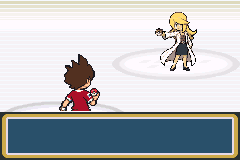
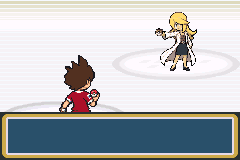
Lower Nathan battle back poses one pixel to meet action bar

Changed region(s): [[0.2333, 0.4688, 0.4083, 0.7188], [0.2625, 0.3438, 0.3792, 0.4688]]

diff --git a/docs/lavanville-zombie-night/integration-alyzon/README.md b/docs/lavanville-zombie-night/integration-alyzon/README.md
@@ -15,12 +15,14 @@ Neuf images 16 × 32, 256 octets chacune : face au repos (0), dos (1), profil (2
 
 La palette carte est chargée à l'apparition, au changement d'identifiant graphique, à la création d'un objet virtuel et lors du retour au terrain. Elle occupe une banque distincte de Nathan (0), Matt dans les scènes existantes d'Argenta/Ligue (6) et Don (10). La banque 7 est réservée à Alyzon dans les scènes qui l'utilisent ; c'est normalement la banque de reflet du deuxième PNJ. Une future scène avec des reflets d'eau concurrents devra tenir compte de cette réservation. La restauration de palette utilise le tag d'Alyzon tant que son objet est actif. Aucun état persistant ni espace EWRAM supplémentaire n'est ajouté.
 
+Le dos de Nathan (`graphics/yokai_characters/nathan/back.png`) est abaissé d’un pixel natif sur ses cinq poses de combat pour toucher le bord supérieur de la barre d’action. La dernière ligne était transparente : aucun pixel visible n’est supprimé, et la palette reste identique.
+
 ## Compilation et contrôles
 
 | Version | Taille de la ROM | SHA-256 |
 |---|---:|---|
[4 lines of base64/hex data omitted]
 
 Limite : 33 554 432 octets. Marge privée : **1 894 965 octets**. EWRAM : **261 128 octets**, identique au socle. IWRAM publique/privée : **29 824 / 29 888 octets**, identique au socle. Les sources musicales ne sont pas modifiées.
 
